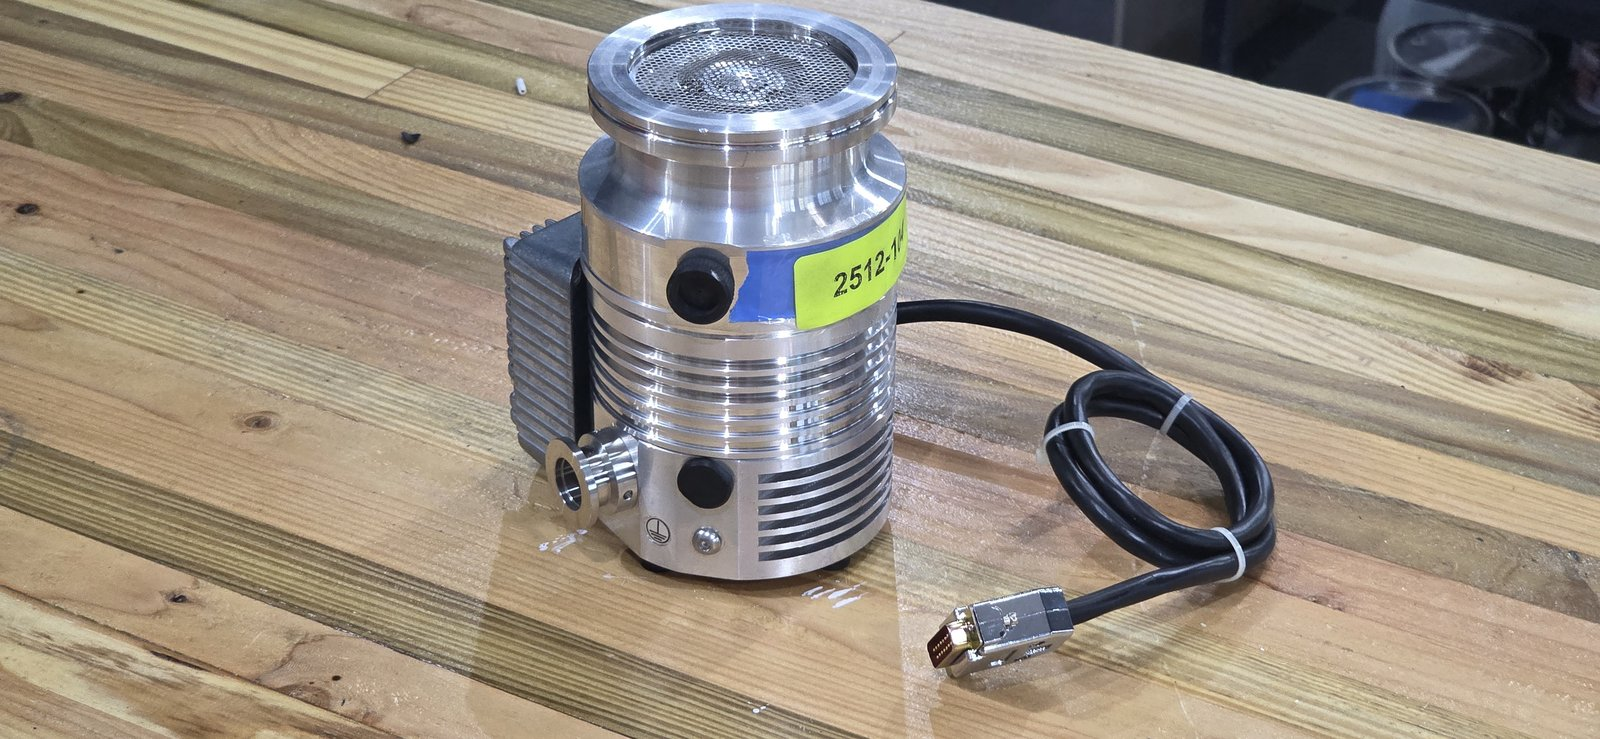
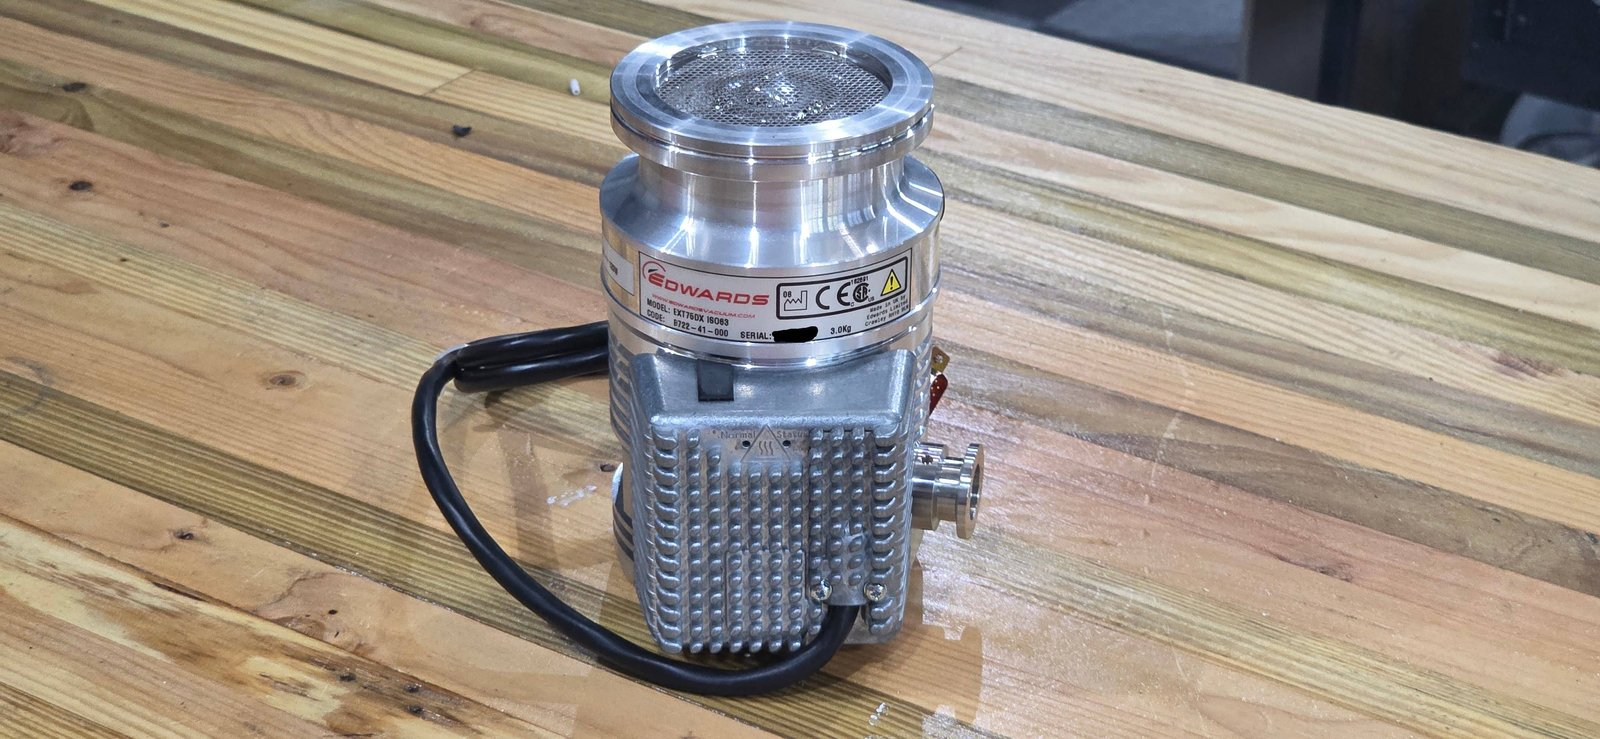
Milestone 2: turbo photo swapped for the label-side view, caption to match

diff --git a/log/m2-vacuum.html b/log/m2-vacuum.html
@@ -38,8 +38,8 @@
   </ul>
 
   <figure>
-    <img src="../img/m2-turbo.jpg" alt="The Edwards EXT75DX turbo pump on a wooden bench, inlet screen uppermost, with its captive cable and 15-way plug coiled beside it">
-    <figcaption>The turbo pump as it arrived. The mesh over the inlet keeps dropped screws out of the rotor. The finned block on the side is the drive electronics, and the whole thing runs from the one cable.</figcaption>
+    <img src="../img/m2-turbo.jpg" alt="The Edwards EXT75DX turbo pump on a wooden bench, inlet screen uppermost, rating label facing the camera, with the finned drive housing and the small exhaust flange below it">
+    <figcaption>The turbo pump as it arrived. The mesh over the inlet keeps dropped screws out of the rotor. The finned block is the drive electronics, built into the pump, and the small flange beside it is the exhaust. The whole thing runs from the one captive cable.</figcaption>
   </figure>
 
   <figure>
